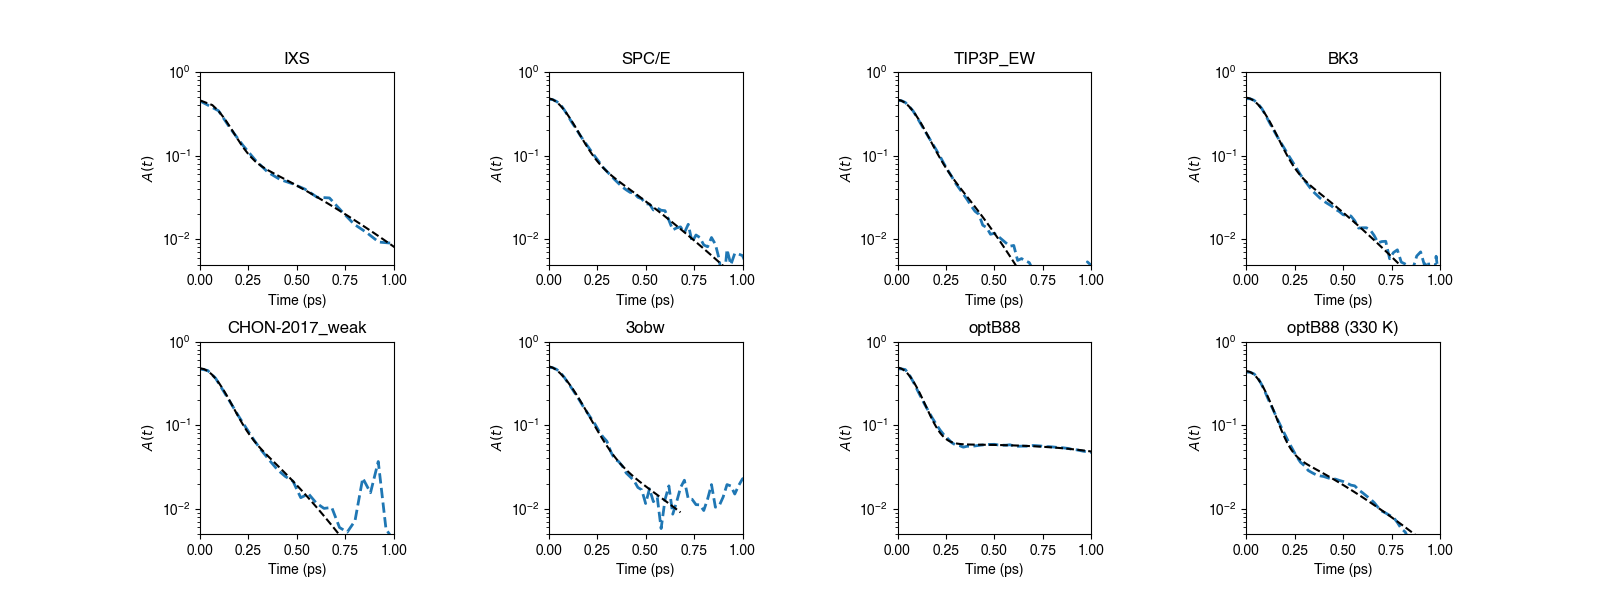
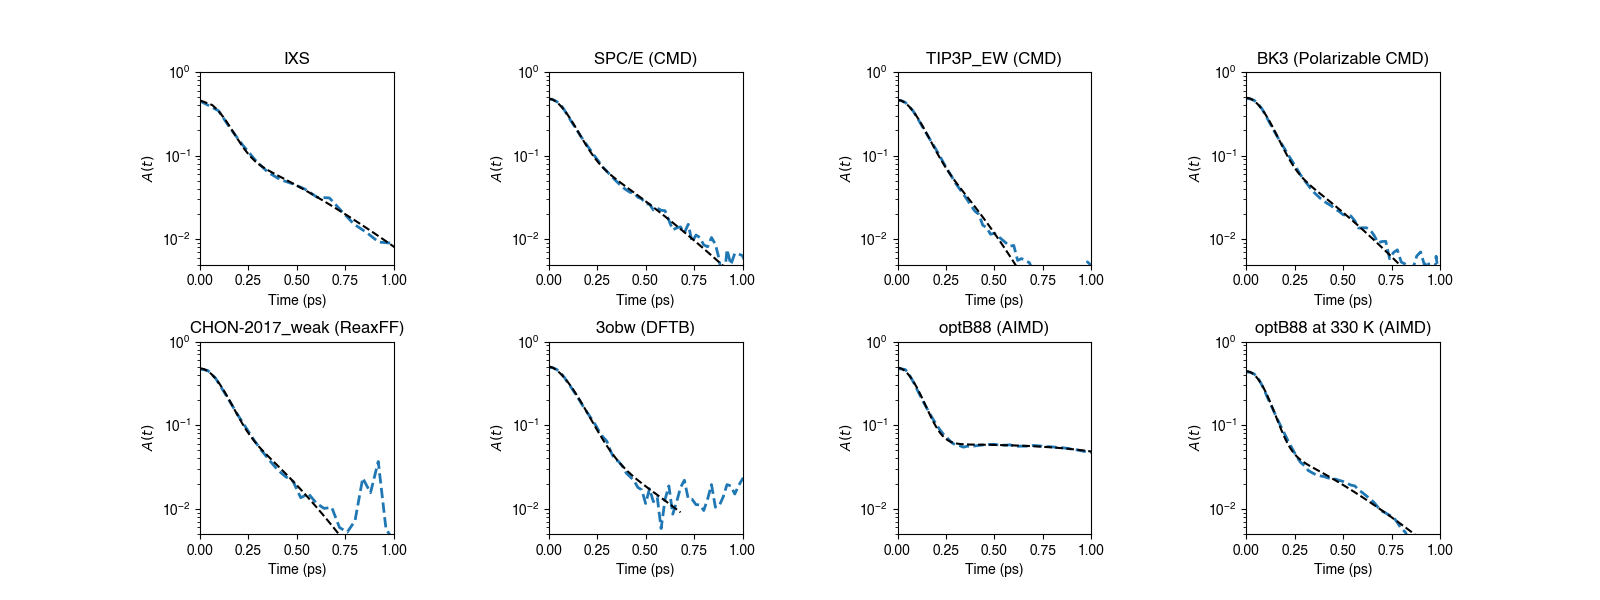
Update labels for figures and tables

diff --git a/water_vhf_analysis/analysis/plot_relaxation.py b/water_vhf_analysis/analysis/plot_relaxation.py
@@ -19,14 +19,14 @@ aimd = {
     "r": np.loadtxt(get_txt_file("aimd/nvt_total_data", "r_random.txt")),
     "t": np.loadtxt(get_txt_file("aimd/nvt_total_data", "t_random.txt")),
     "g": np.loadtxt(get_txt_file("aimd/nvt_total_data", "vhf_random.txt")),
-    "name": "optB88",
+    "name": "optB88 (AIMD)",
 }
 
 aimd_330 = {
     "r": np.loadtxt(get_txt_file("aimd/330k/nvt_total_data", "r_random.txt")),
     "t": np.loadtxt(get_txt_file("aimd/330k/nvt_total_data", "t_random.txt")),
     "g": np.loadtxt(get_txt_file("aimd/330k/nvt_total_data", "vhf_random.txt")),
-    "name": "optB88 (330 K)",
+    "name": "optB88 at 330 K (AIMD)",
 }
 
 aimd_filtered = {
@@ -47,14 +47,14 @@ bk3 = {
     "r": np.loadtxt(get_txt_file("bk3/nvt_total_data", "r_random.txt")),
     "t": np.loadtxt(get_txt_file("bk3/nvt_total_data", "t_random.txt")),
     "g": np.loadtxt(get_txt_file("bk3/nvt_total_data", "vhf_random.txt")),
-    "name": "BK3",
+    "name": "BK3 (Polarizable CMD)",
 }
 
 dftb_d3 = {
     "r": np.loadtxt(get_txt_file("dftb/nvt_total_data", "r_random.txt")),
     "t": np.loadtxt(get_txt_file("dftb/nvt_total_data", "t_random.txt")),
     "g": np.loadtxt(get_txt_file("dftb/nvt_total_data", "vhf_random.txt")),
-    "name": "3obw",
+    "name": "3obw (DFTB)",
 }
 
 dftb_filtered = {
@@ -68,21 +68,21 @@ spce = {
     "r": np.loadtxt(get_txt_file("spce/nvt_total_data", "r_random.txt")),
     "t": np.loadtxt(get_txt_file("spce/nvt_total_data", "t_random.txt")),
     "g": np.loadtxt(get_txt_file("spce/nvt_total_data", "vhf_random.txt")),
-    "name": "SPC/E",
+    "name": "SPC/E (CMD)",
 }
 
 tip3p_ew = {
     "r": np.loadtxt(get_txt_file("tip3p_ew/nvt_total_data", "r_random.txt")),
     "t": np.loadtxt(get_txt_file("tip3p_ew/nvt_total_data", "t_random.txt")),
     "g": np.loadtxt(get_txt_file("tip3p_ew/nvt_total_data", "vhf_random.txt")),
-    "name": "TIP3P_EW",
+    "name": "TIP3P_EW (CMD)",
 }
 
 reaxff = {
     "r": np.loadtxt(get_txt_file("reaxff/nvt_total_data", "r_random.txt")),
     "t": np.loadtxt(get_txt_file("reaxff/nvt_total_data", "t_random.txt")),
     "g": np.loadtxt(get_txt_file("reaxff/nvt_total_data", "vhf_random.txt")),
-    "name": "CHON-2017_weak",
+    "name": "CHON-2017_weak (ReaxFF)",
 }
 
 IXS = {
@@ -216,11 +216,11 @@ def first_peak_auc(datas, si=False, save=True):
             I = I[:upper_limit]
         else:
             if data["name"] not in ("IXS"):
-                if data["name"] == "optB88":
+                if data["name"] == "optB88 (AIMD)":
                     upper_limit = np.where(t < 1.15)[0][-1]
-                elif data["name"] == "CHON-2017_weak":
+                elif data["name"] == "CHON-2017_weak (ReaxFF)":
                     upper_limit = np.where(t < 0.85)[0][-1]
-                elif data["name"] == "3obw":
+                elif data["name"] == "3obw (DFTB)":
                     upper_limit = np.where(t < 0.7)[0][-1]
                 else:
                     upper_limit = np.where(t < 1.00)[0][-1]
@@ -274,8 +274,8 @@ def first_peak_auc(datas, si=False, save=True):
 
     # Rename df index
     df = df.rename_axis("Model")
-    df = df.rename(index={"TIP3P_EW": "TIP3P\_EW", 
-                          "CHON-2017_weak": "CHON-2017\_weak"})
+    df = df.rename(index={"TIP3P_EW (CMD)": "TIP3P\_EW (CMD)", 
+                          "CHON-2017_weak (ReaxFF)": "CHON-2017\_weak (ReaxFF)"})
     if save:
         if si:
             plt.savefig("figures/first_peak_auc_si.pdf")
@@ -288,7 +288,7 @@ def first_peak_auc(datas, si=False, save=True):
 
 
 def plot_first_peak_subplot(datas, si=False, save=True):
-    fontsize = 18
+    fontsize = 16
     labelsize = 18
     fig, axes = plt.subplots(1, 2, figsize=(16, 6))
     colors = sns.color_palette("muted", len(datas))
@@ -467,8 +467,8 @@ def plot_fits(save=True):
     """
     df = pd.read_csv("tables/first_peak_fits.csv")
     # Hacky
-    df.Model[2] = "TIP3P_EW"
-    df.Model[4] = "CHON-2017_weak"
+    df.Model[2] = "TIP3P_EW (CMD)"
+    df.Model[4] = "CHON-2017_weak (ReaxFF)"
 
     # Plot first-step fit
     fig, ax = plt.subplots(figsize=(6, 6))
@@ -533,7 +533,7 @@ def plot_fits(save=True):
 
 def plot_second_subplot(datas, save=True):
     """Plot the height of second peak, and normalized height of second peak"""
-    fontsize = 18
+    fontsize = 16
     labelsize = 18
     fig, axes = plt.subplots(1, 2, figsize=(16, 6))
     colors = sns.color_palette("muted", len(datas))

diff --git a/water_vhf_analysis/analysis/plot_partials.py b/water_vhf_analysis/analysis/plot_partials.py
@@ -24,7 +24,7 @@ def get_data(pair):
         "g": np.loadtxt(
             get_txt_file("aimd/nvt_partial_data", f"vhf_random_{pair}.txt")
         ),
-        "name": "optB88",
+        "name": "optB88 (AIMD)",
     }
 
     spce = {
@@ -33,7 +33,7 @@ def get_data(pair):
         "g": np.loadtxt(
             get_txt_file("spce/nvt_partial_data", f"vhf_random_{pair}.txt")
         ),
-        "name": "SPC/E",
+        "name": "SPC/E (CMD)",
     }
 
     tip3p_ew = {
@@ -46,14 +46,14 @@ def get_data(pair):
         "g": np.loadtxt(
             get_txt_file("tip3p_ew/nvt_partial_data", f"vhf_random_{pair}.txt")
         ),
-        "name": "TIP3P_EW",
+        "name": "TIP3P_EW (CMD)",
     }
 
     bk3 = {
         "r": np.loadtxt(get_txt_file("bk3/nvt_partial_data", f"r_random_{pair}.txt")),
         "t": np.loadtxt(get_txt_file("bk3/nvt_partial_data", f"t_random_{pair}.txt")),
         "g": np.loadtxt(get_txt_file("bk3/nvt_partial_data", f"vhf_random_{pair}.txt")),
-        "name": "BK3",
+        "name": "BK3 (Polarizable CMD)",
     }
 
     reaxff = {
@@ -66,7 +66,7 @@ def get_data(pair):
         "g": np.loadtxt(
             get_txt_file("reaxff/nvt_partial_data", f"vhf_random_{pair}.txt")
         ),
-        "name": "CHON-2017_weak",
+        "name": "CHON-2017_weak (ReaxFF)",
     }
 
     aimd_330 = {
@@ -79,7 +79,7 @@ def get_data(pair):
         "g": np.loadtxt(
             get_txt_file("aimd/330k/nvt_partial_data", f"vhf_random_{pair}.txt")
         ),
-        "name": "optB88 (330 K)",
+        "name": "optB88 at 330 K (AIMD)",
     }
 
     aimd_filtered_330 = {
@@ -102,7 +102,7 @@ def get_data(pair):
         "g": np.loadtxt(
             get_txt_file("dftb/nvt_partial_data", f"vhf_random_{pair}.txt")
         ),
-        "name": "3obw",
+        "name": "3obw (DFTB)",
     }
 
     datas = [spce, tip3p_ew, bk3, reaxff, dftb, aimd, aimd_330]
@@ -111,7 +111,7 @@ def get_data(pair):
 
 
 def plot_peak_subplots(save=True):
-    fontsize = 20
+    fontsize = 18
     labelsize = 20
     fig, axes = plt.subplots(2, 2, figsize=(12, 12))
     fig.subplots_adjust(wspace=0.5, hspace=0.3)
@@ -271,7 +271,7 @@ def plot_peak_subplots(save=True):
     lgd = fig.legend(
         handles,
         labels,
-        bbox_to_anchor=(0.52, 1.12),
+        bbox_to_anchor=(0.5, 1.12),
         fontsize=fontsize,
         loc="upper center",
         ncol=3,
@@ -388,7 +388,7 @@ def plot_vhf_subplots(datas, filename=None, ylim=(0, 3)):
         sm.set_array([])
 
         ax.plot(data["r"], np.ones(len(data["r"])), "k--", alpha=0.6)
-        ax.set_title(data["name"], fontsize=fontsize)
+        ax.set_title(data["name"], fontsize=fontsize, y=1.05)
 
         ax.set_xlim((0, 0.8))
         ax.set_ylim(ylim)
@@ -598,8 +598,8 @@ if __name__ == "__main__":
             # first_oh_peak(datas,filename=f'figures/{pair}_first_peak.png')
             # first_oh_peak(datas,filename=f'figures/{pair}_first_peak.pdf')
 
-        #plot_vhf_subplots(datas, ylim=ylim, filename=f"figures/{pair}_subplot.pdf")
-        #plot_vhf_subplots(datas, ylim=ylim, filename=f"figures/{pair}_subplot.png")
+        plot_vhf_subplots(datas, ylim=ylim, filename=f"figures/{pair}_subplot.pdf")
+        plot_vhf_subplots(datas, ylim=ylim, filename=f"figures/{pair}_subplot.png")
 
         # if pair == 'H_H':
         #    first_peak_height(datas, peak_guess=peak_guess, ylim=(0.8, 1.8), filename=f'figures/{pair}_first_peak.pdf', shift=False)

diff --git a/water_vhf_analysis/analysis/plot_summary.py b/water_vhf_analysis/analysis/plot_summary.py
@@ -19,14 +19,14 @@ aimd = {
     "r": np.loadtxt(get_txt_file("aimd/nvt_total_data", "r_random.txt")),
     "t": np.loadtxt(get_txt_file("aimd/nvt_total_data", "t_random.txt")),
     "g": np.loadtxt(get_txt_file("aimd/nvt_total_data", "vhf_random.txt")),
-    "name": "optB88",
+    "name": "optB88 (AIMD)",
 }
 
 aimd_330 = {
     "r": np.loadtxt(get_txt_file("aimd/330k/nvt_total_data", "r_random.txt")),
     "t": np.loadtxt(get_txt_file("aimd/330k/nvt_total_data", "t_random.txt")),
     "g": np.loadtxt(get_txt_file("aimd/330k/nvt_total_data", "vhf_random.txt")),
-    "name": "optB88 (330 K)",
+    "name": "optB88 at 330 K (AIMD)",
 }
 
 aimd_filtered = {
@@ -47,14 +47,14 @@ bk3 = {
     "r": np.loadtxt(get_txt_file("bk3/nvt_total_data", "r_random.txt")),
     "t": np.loadtxt(get_txt_file("bk3/nvt_total_data", "t_random.txt")),
     "g": np.loadtxt(get_txt_file("bk3/nvt_total_data", "vhf_random.txt")),
-    "name": "BK3",
+    "name": "BK3 (Polarizable CMD)",
 }
 
 dftb_d3 = {
     "r": np.loadtxt(get_txt_file("dftb/nvt_total_data", "r_random.txt")),
     "t": np.loadtxt(get_txt_file("dftb/nvt_total_data", "t_random.txt")),
     "g": np.loadtxt(get_txt_file("dftb/nvt_total_data", "vhf_random.txt")),
-    "name": "3obw",
+    "name": "3obw (DFTB)",
 }
 
 dftb_filtered = {
@@ -68,21 +68,21 @@ spce = {
     "r": np.loadtxt(get_txt_file("spce/nvt_total_data", "r_random.txt")),
     "t": np.loadtxt(get_txt_file("spce/nvt_total_data", "t_random.txt")),
     "g": np.loadtxt(get_txt_file("spce/nvt_total_data", "vhf_random.txt")),
-    "name": "SPC/E",
+    "name": "SPC/E (CMD)",
 }
 
 tip3p_ew = {
     "r": np.loadtxt(get_txt_file("tip3p_ew/nvt_total_data", "r_random.txt")),
     "t": np.loadtxt(get_txt_file("tip3p_ew/nvt_total_data", "t_random.txt")),
     "g": np.loadtxt(get_txt_file("tip3p_ew/nvt_total_data", "vhf_random.txt")),
-    "name": "TIP3P_EW",
+    "name": "TIP3P_EW (CMD)",
 }
 
 reaxff = {
     "r": np.loadtxt(get_txt_file("reaxff/nvt_total_data", "r_random.txt")),
     "t": np.loadtxt(get_txt_file("reaxff/nvt_total_data", "t_random.txt")),
     "g": np.loadtxt(get_txt_file("reaxff/nvt_total_data", "vhf_random.txt")),
-    "name": "CHON-2017_weak",
+    "name": "CHON-2017_weak (ReaxFF)",
 }
 
 IXS = {

diff --git a/water_vhf_analysis/utils/plotting.py b/water_vhf_analysis/utils/plotting.py
@@ -6,15 +6,15 @@ from matplotlib.ticker import MultipleLocator
 def get_color(name):
     color_dict = dict()
     color_list = [
-        "TIP3P_EW",
+        "TIP3P_EW (CMD)",
         "placeholder",
-        "SPC/E",
-        "CHON-2017_weak",
-        "BK3",
-        "3obw",
+        "SPC/E (CMD)",
+        "CHON-2017_weak (ReaxFF)",
+        "BK3 (Polarizable CMD)",
+        "3obw (DFTB)",
         "optB88 (filtered)",
-        "optB88",
-        "optB88 (330 K)",
+        "optB88 (AIMD)",
+        "optB88 at 330 K (AIMD)",
     ]
     colors = sns.color_palette("muted", len(color_list))
     for model, color in zip(color_list, colors):
